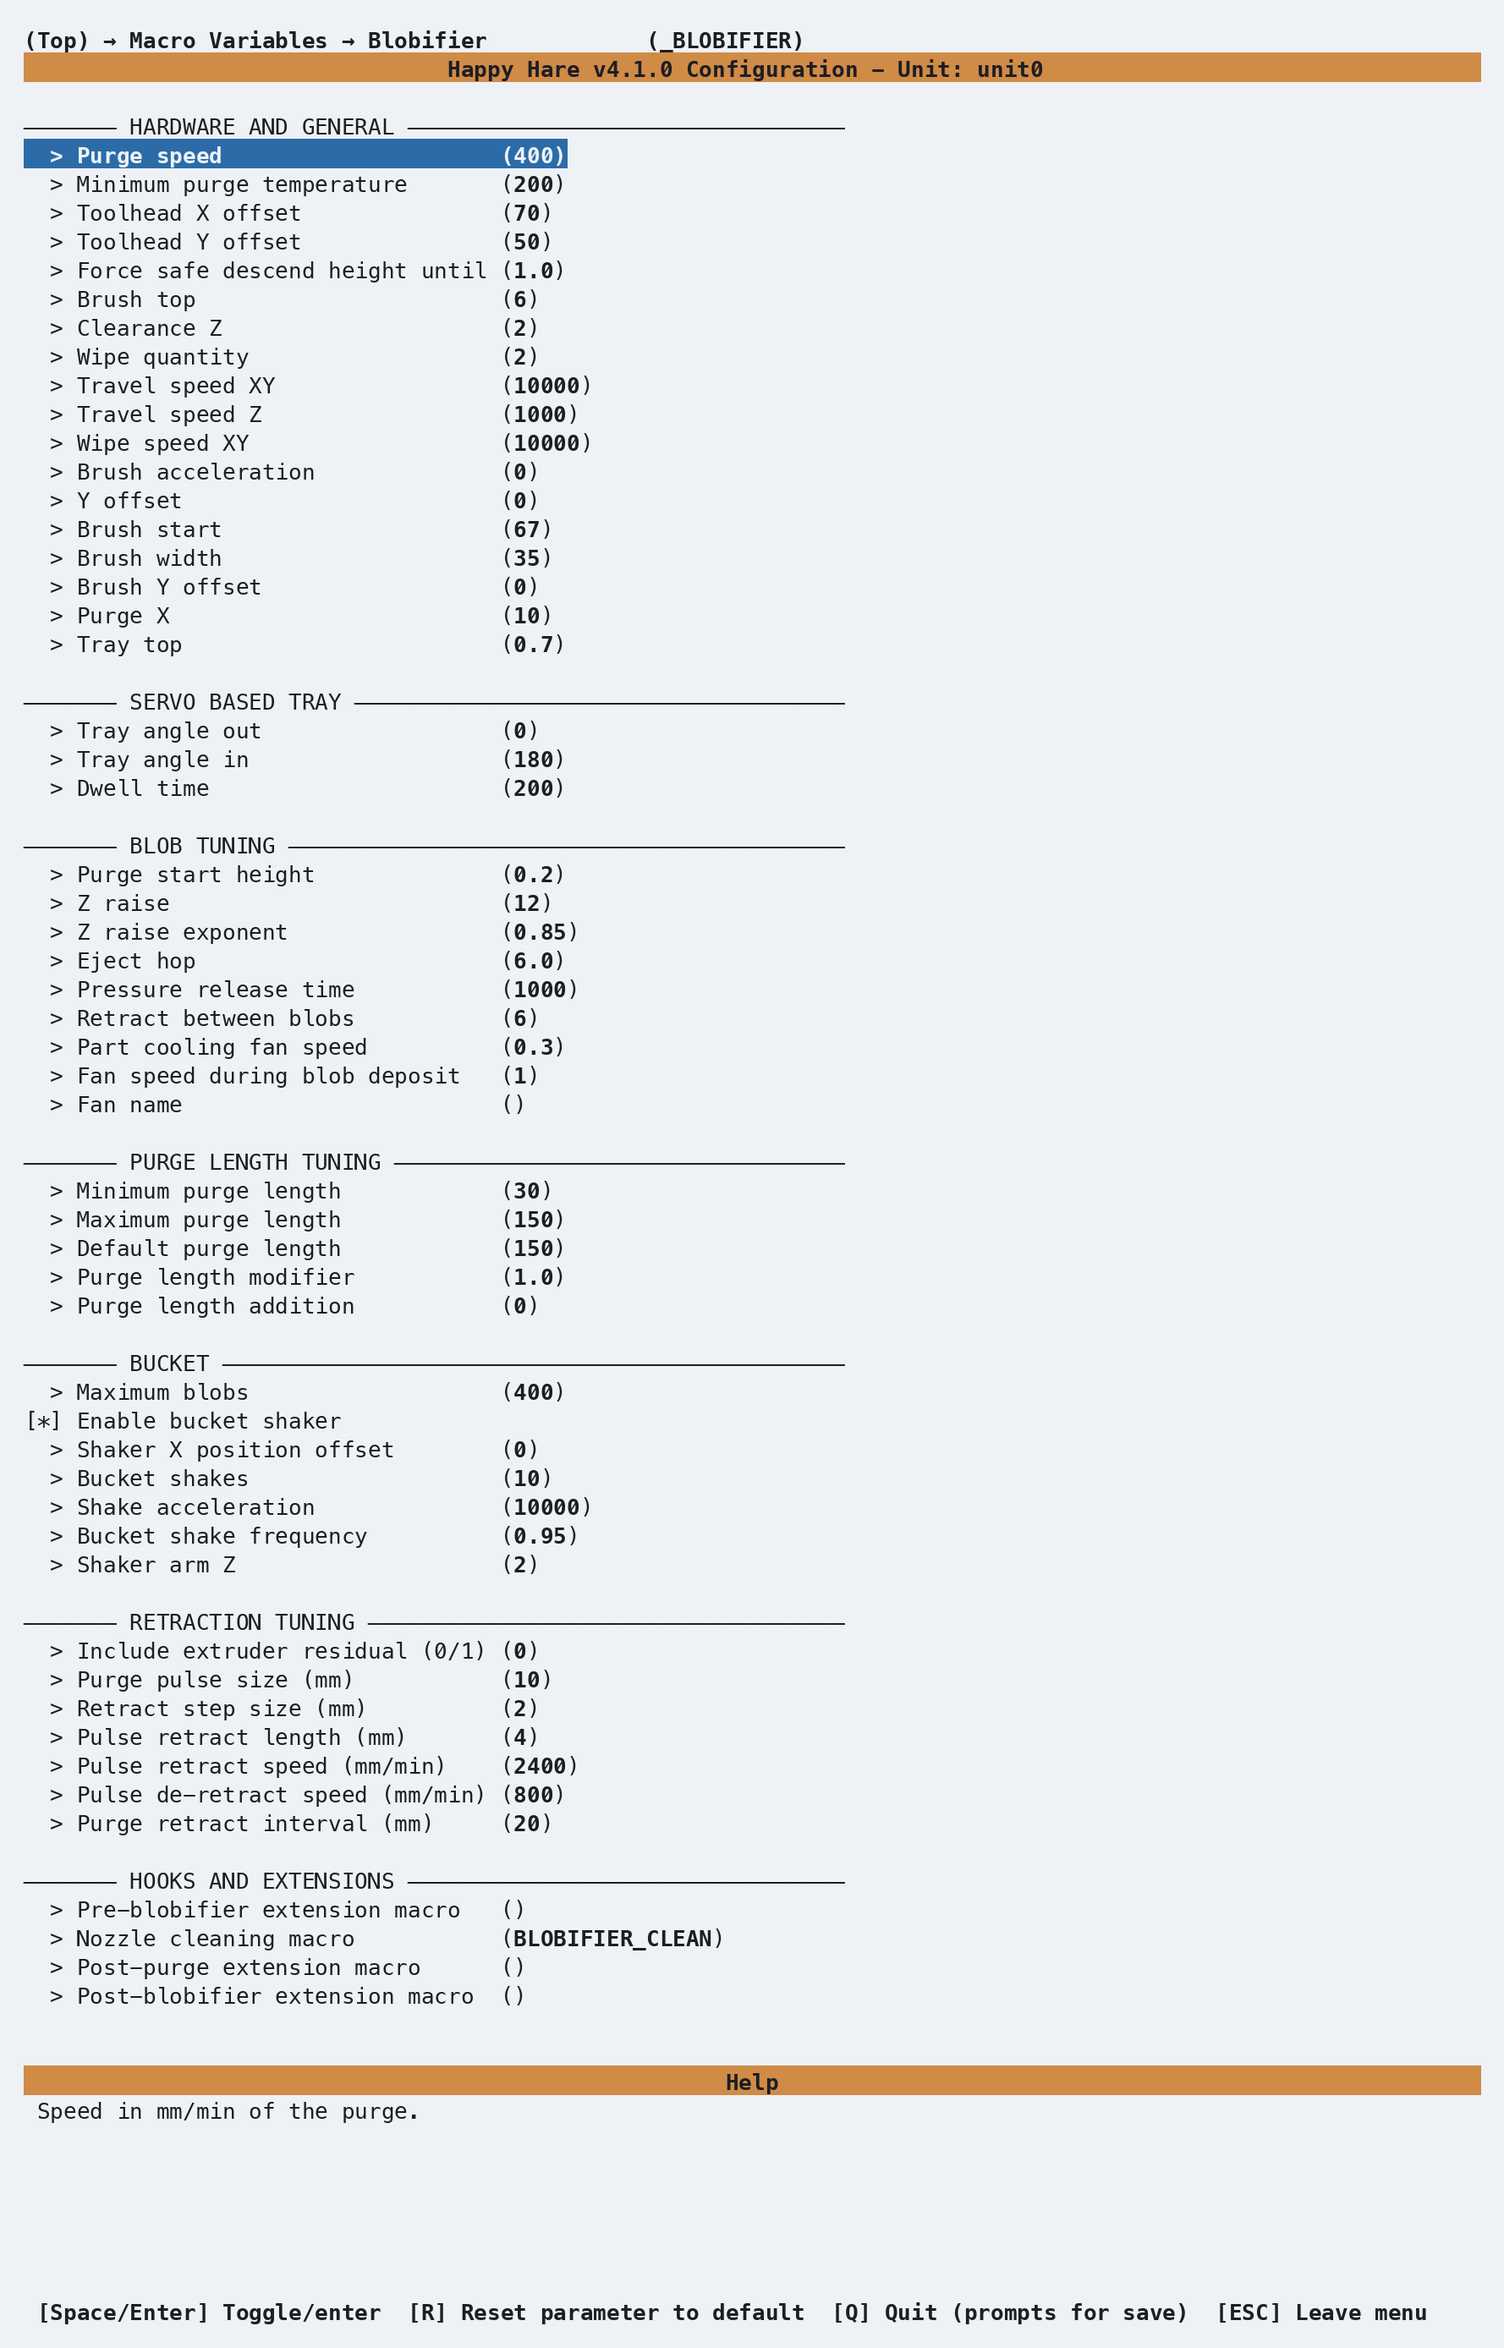
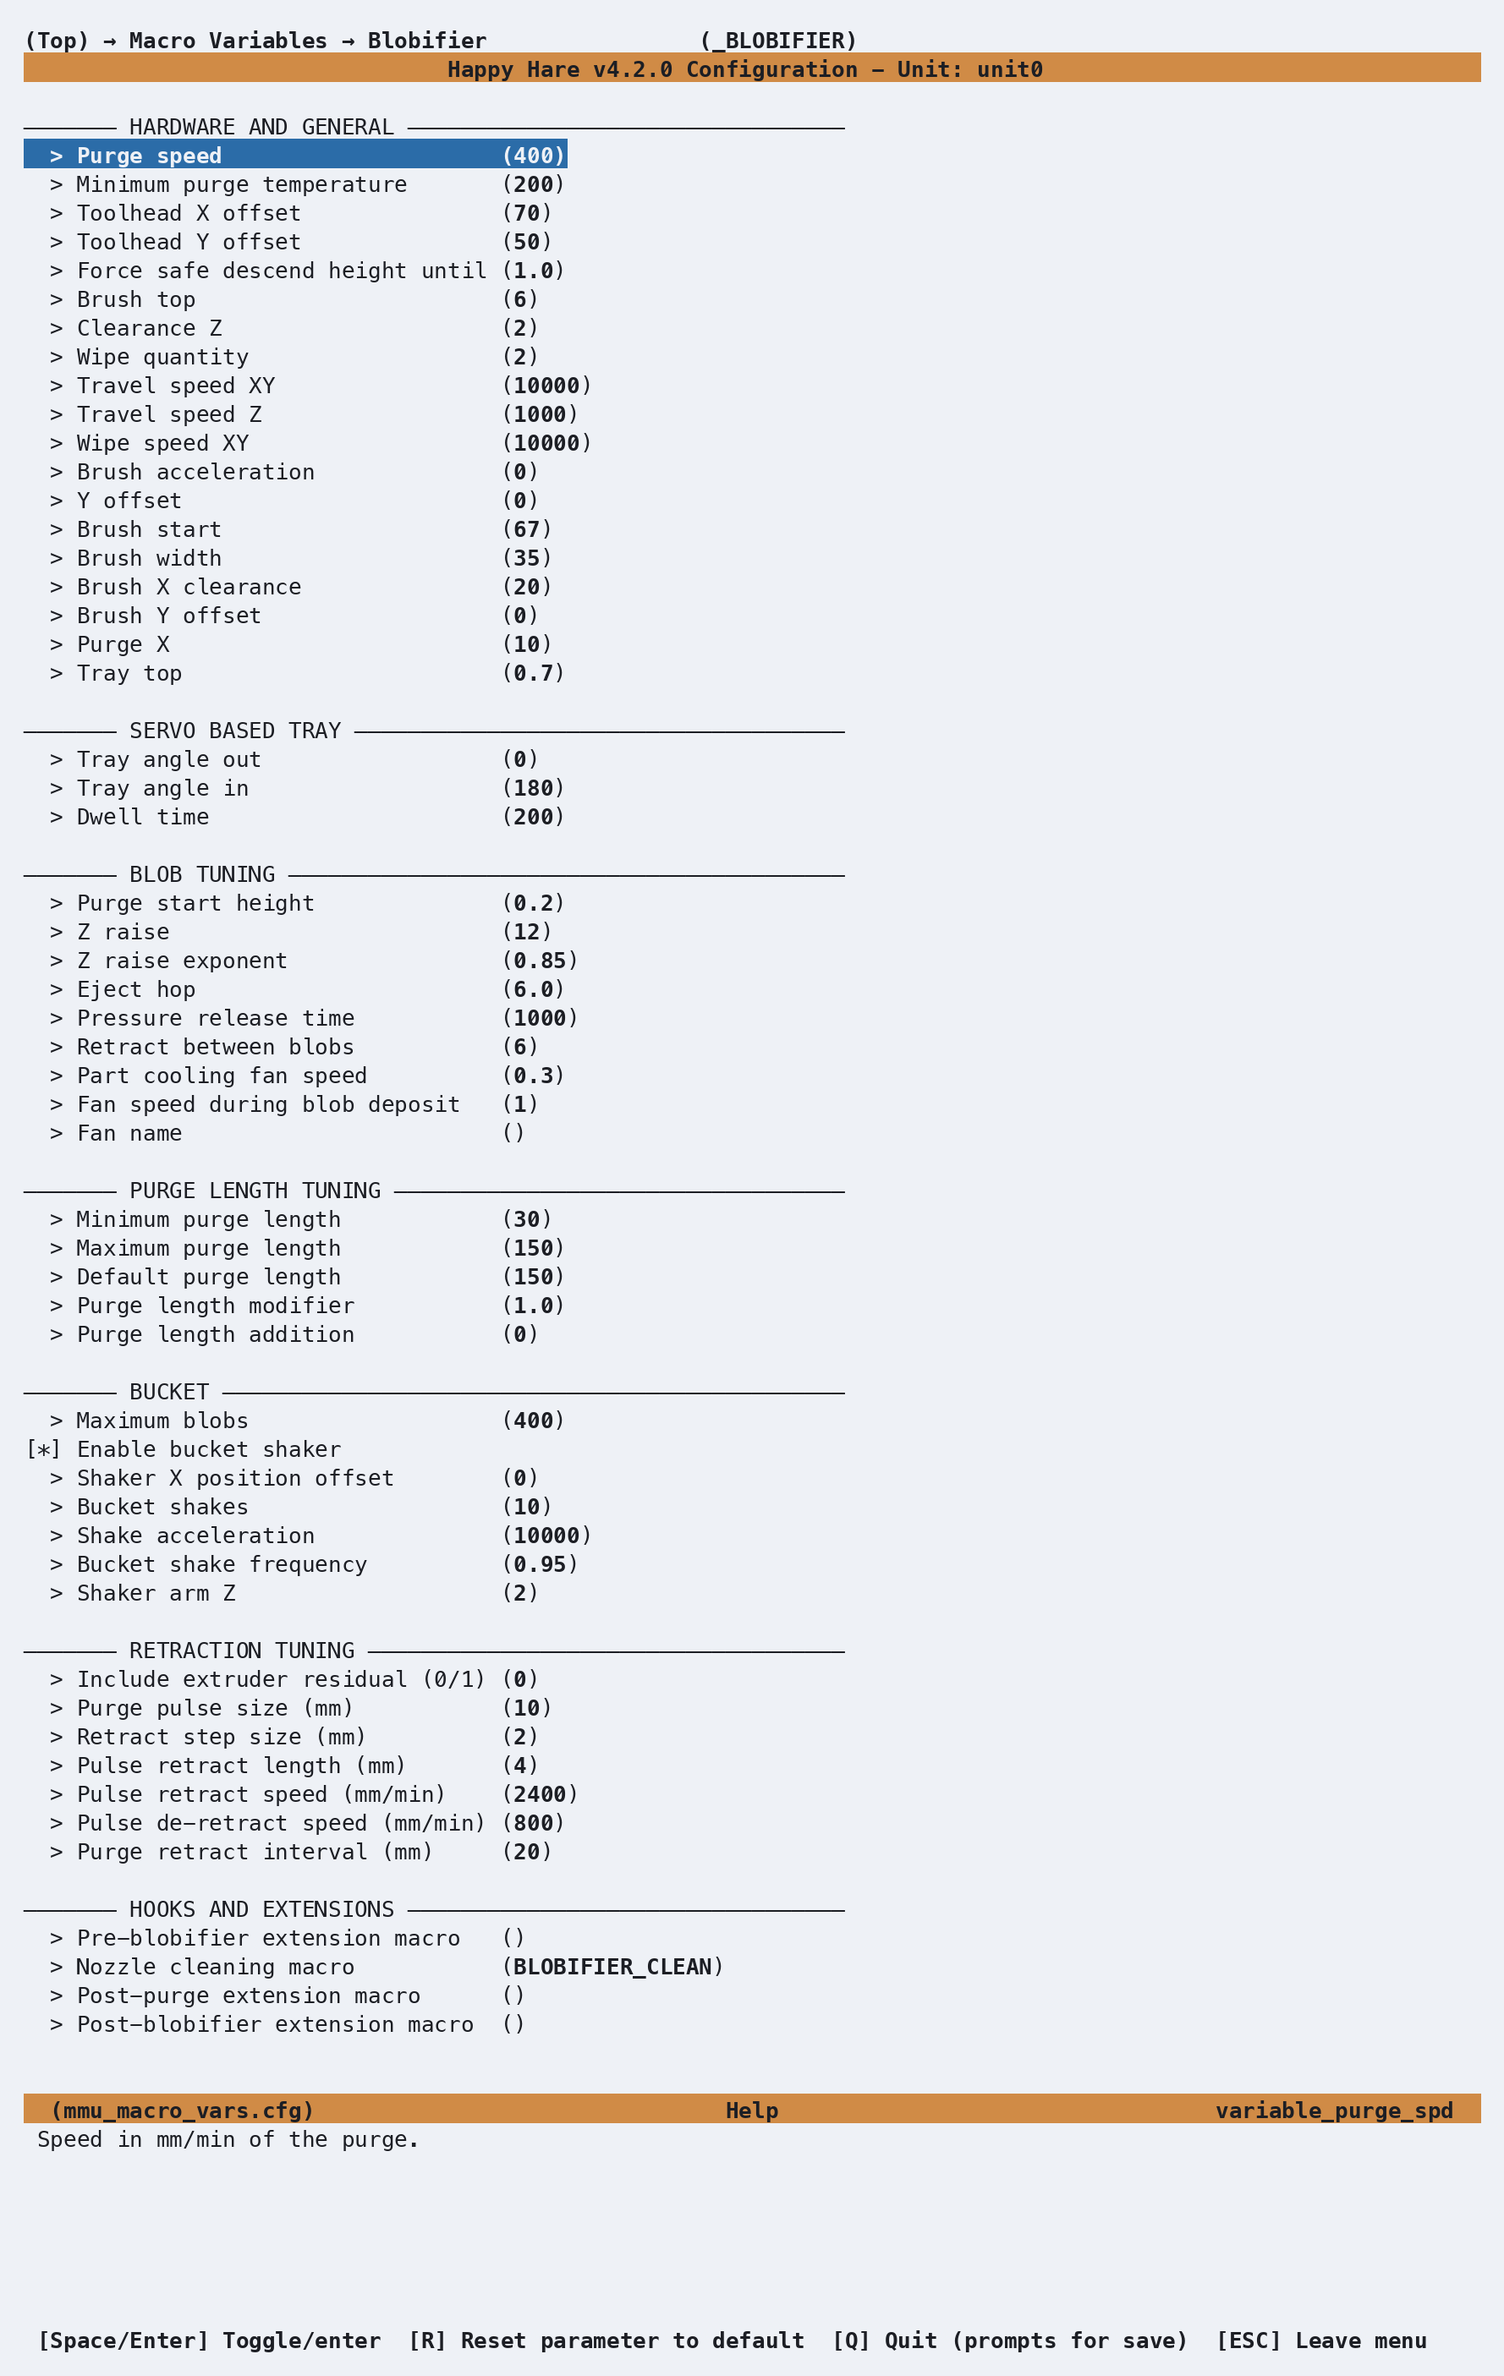
docs: cover PRs 1462-1472 in v4.2.0 release notes and Blobifier guide (#145)
* docs: cover PRs 1462-1472 in v4.2.0 release notes

Add the Blobifier brush clearance and tension-adjustment removal, the
TMC diag1_pin fix, numeric menuconfig options and the ViViD
always-gripped upgrade note, and move the comparison links to the
current development head.

* docs(blobifier): drop per-blob tension adjustment, document brush_clearance_x

Blobifier no longer calls MMU_SYNC_FEEDBACK ADJUST_TENSION after each
blob (Happy-Hare #1465), and brush_clearance_x replaces the fixed 20 mm
brush X clearance (Happy-Hare #1462).

* docs(blobifier): regenerate menuconfig screenshots from development

Captured with the macro-blobifier session against Happy Hare development
7635a035. The macro-vars screen now shows Brush X clearance, and the
Purging screens show the extra-purge and minimum-purge-volume options.

diff --git a/doc/Release-Notes.md b/doc/Release-Notes.md
@@ -211,8 +211,8 @@ baseline used for the comparison above.
 ## v4.2.0
 
 This covers changes since the v4.1.0 tag, including fixes subsequently merged
-into `main`. See the [full release comparison](https://github.com/moggieuk/Happy-Hare/compare/v4.1.0...b277163a18cf09ee5c794823aed369fecd1327f8)
-and the [development-only comparison](https://github.com/moggieuk/Happy-Hare/compare/70aa90fb9aa18787de445235bd26a0665168c441...b277163a18cf09ee5c794823aed369fecd1327f8).
+into `main`. See the [full release comparison](https://github.com/moggieuk/Happy-Hare/compare/v4.1.0...7635a035a9a95935bd8eb9b79a935ad55c6b070f)
+and the [development-only comparison](https://github.com/moggieuk/Happy-Hare/compare/70aa90fb9aa18787de445235bd26a0665168c441...7635a035a9a95935bd8eb9b79a935ad55c6b070f).
 
 ### Upgrade notes
 
@@ -221,6 +221,7 @@ and the [development-only comparison](https://github.com/moggieuk/Happy-Hare/com
 - The default `toolhead_move_error_tolerance` is now 80%, requiring the encoder to observe at least 20% of a final move. Merge/Refresh keeps an existing value. Higher tolerance reduces false failures but can also miss real loading failures. ([#1402](https://github.com/moggieuk/Happy-Hare/pull/1402))
 - Unit renames, reorders and gate-count changes preserve surviving gate data at startup. Record renames through the installer, unload before renumbering gates, and restore matching configuration and saved state together. Ambiguous renames and mismatched migration history stop startup. See [State Persistence](Feature-State-Persistence.md). ([#1456](https://github.com/moggieuk/Happy-Hare/pull/1456))
 - `extruder_unload_speed` and the two-level sync-feedback speed/boost multipliers now take effect. ([#1370](https://github.com/moggieuk/Happy-Hare/pull/1370), [#1376](https://github.com/moggieuk/Happy-Hare/pull/1376))
+- BTT ViViD units now render `filament_always_gripped: 1`, and the upgrade sets it on existing ViViD units. `sync_to_extruder`, `sync_form_tip` and `sync_purge` are then always on, and `MMU_RELEASE` and `MMU_SYNC_GEAR_MOTOR SYNC=0` are refused. ([#1472](https://github.com/moggieuk/Happy-Hare/pull/1472))
 
 - Custom macros that set variables on `_MMU_ERROR_DIALOG` must switch to
   [`MMU_ERROR_DIALOG`](Reference-Commands.md#mmu_error_dialog) with `ABORT`, `MSG`
@@ -238,7 +239,7 @@ and the [development-only comparison](https://github.com/moggieuk/Happy-Hare/com
 - Keep filament gripped after `MMU_TEST_MOVE GRIP=1` and correct the degree symbol in servo-selector calibration summaries. ([#1424](https://github.com/moggieuk/Happy-Hare/pull/1424), [#1426](https://github.com/moggieuk/Happy-Hare/pull/1426))
 - Servo-cam selectors release filament by moving to another gate's angle, set per gate by `selector_release_gates` (default: the next gate), instead of halfway between gates. A fixed `servo_release_angle` still takes precedence; clear a saved one with `MMU_CALIBRATE_SERVO_SELECTOR RESET_RELEASE=1`. MMX and Pico MMU can now turn off `filament_always_gripped`, and Pico's sync settings then follow it instead of being forced on. Servo, rotary and ERCF/Tradrack selectors grip the selected gate before the gear syncs (for example at print start, where ERCF/Tradrack with `sync_to_extruder` now lower the servo), and don't sync if the grip fails. `MMU_RELEASE` stops the gear syncing and cancels an `MMU_SYNC_GEAR_MOTOR` sync, which now warns when it can't sync. See [Servo-cam selectors](Calibration-Selector.md#servo-cam-selectors). ([#1469](https://github.com/moggieuk/Happy-Hare/pull/1469))
 - Correct the optional G-code unload sequence to unload the Bowden tube and park filament at the same position as the built-in sequence. ([#1443](https://github.com/moggieuk/Happy-Hare/pull/1443), [#1444](https://github.com/moggieuk/Happy-Hare/pull/1444))
-- Allow Blobifier parking on homed printers without QGL. Apply its configured low-print-height descent override when the tray is unsafe. Restore nozzle temperature after raising it for a purge, and adjust buffer tension after blob cutoff while retaining gear synchronization. ([#1427](https://github.com/moggieuk/Happy-Hare/pull/1427), [#1428](https://github.com/moggieuk/Happy-Hare/pull/1428), [#1433](https://github.com/moggieuk/Happy-Hare/pull/1433), [#1447](https://github.com/moggieuk/Happy-Hare/pull/1447))
+- Allow Blobifier parking on homed printers without QGL. Apply its configured low-print-height descent override when the tray is unsafe. Restore nozzle temperature after raising it for a purge. Blobifier no longer adjusts buffer tension after each blob, as Happy Hare adjusts it after loading; `MMU_SYNC_FEEDBACK ADJUST_TENSION=1` now keeps gear synchronization. Add `brush_clearance_x` for the X gap kept from the brush (default 20 mm, the previous fixed value). ([#1427](https://github.com/moggieuk/Happy-Hare/pull/1427), [#1428](https://github.com/moggieuk/Happy-Hare/pull/1428), [#1433](https://github.com/moggieuk/Happy-Hare/pull/1433), [#1447](https://github.com/moggieuk/Happy-Hare/pull/1447), [#1462](https://github.com/moggieuk/Happy-Hare/pull/1462), [#1465](https://github.com/moggieuk/Happy-Hare/pull/1465))
 - Add [extra purge on a material change](Feature-Tip-Forming-Purging.md#extra-purge-on-a-material-change), with family matching and configurable material-specific volumes. ([#1442](https://github.com/moggieuk/Happy-Hare/pull/1442))
 - For initial loads and standalone loads with Happy Hare-controlled purging, heat for remembered residual filament before returning to the incoming filament temperature. Mid-print changes remain slicer-controlled. Heating and `MMU_COLD_PULL` now target the MMU-configured extruder rather than whichever extruder is active; `printer.mmu.extruder_name` exposes that choice. ([#1434](https://github.com/moggieuk/Happy-Hare/pull/1434), [#1448](https://github.com/moggieuk/Happy-Hare/pull/1448))
 - After a custom `user_park_move_macro`, finish the return to the last or next X/Y position at `park_travel_speed` before lowering Z. This prevents a slow diagonal return at lift speed when the custom macro leaves the toolhead parked. See [Return to Print Movement](Toolchange-Movement.md#return-to-print-movement). ([#1461](https://github.com/moggieuk/Happy-Hare/pull/1461))
@@ -274,11 +275,11 @@ and the [development-only comparison](https://github.com/moggieuk/Happy-Hare/com
 - Add optional `heater_pause_temp` to turn drying heaters off or lower their targets during a print pause. The default (`-1`) keeps drying unchanged; `0` turns heat off and positive values limit the temperature. Active drying targets return on resume, with material caps preserved; the drying timer keeps running. See [Drying during a print pause](Feature-Environment-Manager.md#drying-during-a-print-pause). ([#1468](https://github.com/moggieuk/Happy-Hare/pull/1468))
 
 - Cap shared-heater drying temperature by every gate holding filament, including gates not selected for drying. Add experimental `heater_rotate_in_print` for background rotation of empty idle gates on supported independent-gear machines; it remains off by default. See [Heater & Environment Manager](Feature-Environment-Manager.md#spool-rotation). ([#1327](https://github.com/moggieuk/Happy-Hare/pull/1327))
-- Preserve custom temperature-sensor and TMC driver options during Refresh, rebuilding affected sections when sensor or driver type changes. Preserve default vendor, TD, TD-1 color, RFID and spool-weight lists. ([#1405](https://github.com/moggieuk/Happy-Hare/pull/1405), [#1446](https://github.com/moggieuk/Happy-Hare/pull/1446), [#1450](https://github.com/moggieuk/Happy-Hare/pull/1450), [#1452](https://github.com/moggieuk/Happy-Hare/pull/1452))
+- Preserve custom temperature-sensor and TMC driver options during Refresh, rebuilding affected sections when sensor or driver type changes. Preserve default vendor, TD, TD-1 color, RFID and spool-weight lists. Render `diag1_pin` for TMC2130, TMC2240 and TMC5160 drivers instead of `diag_pin`, which Klipper rejects for them. ([#1405](https://github.com/moggieuk/Happy-Hare/pull/1405), [#1446](https://github.com/moggieuk/Happy-Hare/pull/1446), [#1450](https://github.com/moggieuk/Happy-Hare/pull/1450), [#1452](https://github.com/moggieuk/Happy-Hare/pull/1452), [#1466](https://github.com/moggieuk/Happy-Hare/pull/1466))
 - Allow an existing user-owned `[save_variables]` section instead of generating a second one; keep the configured path consistent with its filename. ([#1455](https://github.com/moggieuk/Happy-Hare/pull/1455))
 - Make the filament catchment-buffer option take effect in generated unit configuration. ([#1438](https://github.com/moggieuk/Happy-Hare/pull/1438))
 - Allow `./install.sh -g` to raise the default 12-gate limit per unit, and keep a v4 upgrade on v4 even when started with `-b v3`. ([#1388](https://github.com/moggieuk/Happy-Hare/pull/1388), [#1429](https://github.com/moggieuk/Happy-Hare/pull/1429))
-- Improve Merge/Refresh progress and comparisons; preserve selected custom values while prompts are hidden. Reorganize tip forming, purging and kinematics menus, link macro settings, expose encoder/eSpooler tuning and show the target configuration option. Move help links to this documentation site. ([#1380](https://github.com/moggieuk/Happy-Hare/pull/1380), [#1384](https://github.com/moggieuk/Happy-Hare/pull/1384), [#1392](https://github.com/moggieuk/Happy-Hare/pull/1392), [#1393](https://github.com/moggieuk/Happy-Hare/pull/1393), [#1394](https://github.com/moggieuk/Happy-Hare/pull/1394), [#1406](https://github.com/moggieuk/Happy-Hare/pull/1406), [#1407](https://github.com/moggieuk/Happy-Hare/pull/1407), [#1408](https://github.com/moggieuk/Happy-Hare/pull/1408), [#1410](https://github.com/moggieuk/Happy-Hare/pull/1410), [#1440](https://github.com/moggieuk/Happy-Hare/pull/1440))
+- Improve Merge/Refresh progress and comparisons; preserve selected custom values while prompts are hidden. Reorganize tip forming, purging and kinematics menus, link macro settings, expose encoder/eSpooler tuning and show the target configuration option. Move help links to this documentation site. Edit numeric heater, TD-1 and tip-park settings as numbers; existing quoted values still load. ([#1380](https://github.com/moggieuk/Happy-Hare/pull/1380), [#1384](https://github.com/moggieuk/Happy-Hare/pull/1384), [#1392](https://github.com/moggieuk/Happy-Hare/pull/1392), [#1393](https://github.com/moggieuk/Happy-Hare/pull/1393), [#1394](https://github.com/moggieuk/Happy-Hare/pull/1394), [#1406](https://github.com/moggieuk/Happy-Hare/pull/1406), [#1407](https://github.com/moggieuk/Happy-Hare/pull/1407), [#1408](https://github.com/moggieuk/Happy-Hare/pull/1408), [#1410](https://github.com/moggieuk/Happy-Hare/pull/1410), [#1440](https://github.com/moggieuk/Happy-Hare/pull/1440), [#1471](https://github.com/moggieuk/Happy-Hare/pull/1471))
 
 ### Developer tools and maintenance
 

diff --git a/doc/Macro-Blobifier.md b/doc/Macro-Blobifier.md
@@ -125,8 +125,15 @@ Check physical clearance before relying on the low-height override.
 
 If Blobifier raises the nozzle temperature for a purge, it restores the previous
 target afterward unless another macro changed that target during purging. This
-restoration does not itself wait for cooldown. Buffer tension adjustment runs after the tray cuts off each
-blob, and preserves the gear synchronization needed for the next blob.
+restoration does not itself wait for cooldown. Blobifier does not adjust buffer
+tension between blobs; with a sync-feedback buffer, Happy Hare adjusts tension
+after loading (`toolhead_post_load_tension_adjust`).
+
+When approaching the brush, after wiping and after the tray retracts, the
+nozzle moves to `brush_clearance_x` mm left of `brush_start` (never below
+X=30) to stay clear of the tray and any Filametrix cutter pin. The default of
+20 mm suits the standard build; change it if your brush, tray or cutter needs
+a different gap.
 
 ## See also
 

diff --git a/doc/Reference-Macro-Vars.md b/doc/Reference-Macro-Vars.md
@@ -241,6 +241,7 @@ left to its upstream README alone.
 | Variable | Default | Description |
 |---|---|---|
 | `brush_start` | `67` | Start X of a bed-mounted brush - indicative defaults `34`/`67`/`84` for 250/300/350mm builds; for a gantry-mounted brush, set to your nozzle-stop position instead |
+| `brush_clearance_x` | `20` mm | Distance left of `brush_start` the nozzle parks before and after brushing, clear of the tray and any Filametrix cutter pin (never below X=30) |
 | `brush_width` | `35` mm | Brush width along X |
 | `brush_top` | `6` | Z position of the brush top - start high and lower carefully; `None` for a gantry-mounted brush needing no Z move |
 | `clearance_z` | `2` mm | Z clearance above the brush while traveling |
